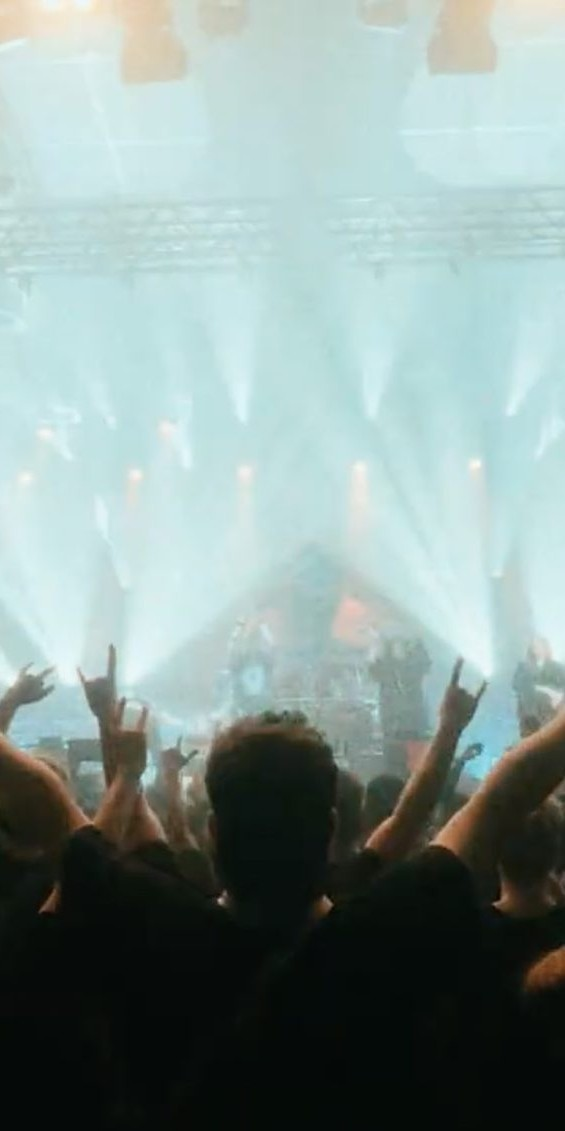
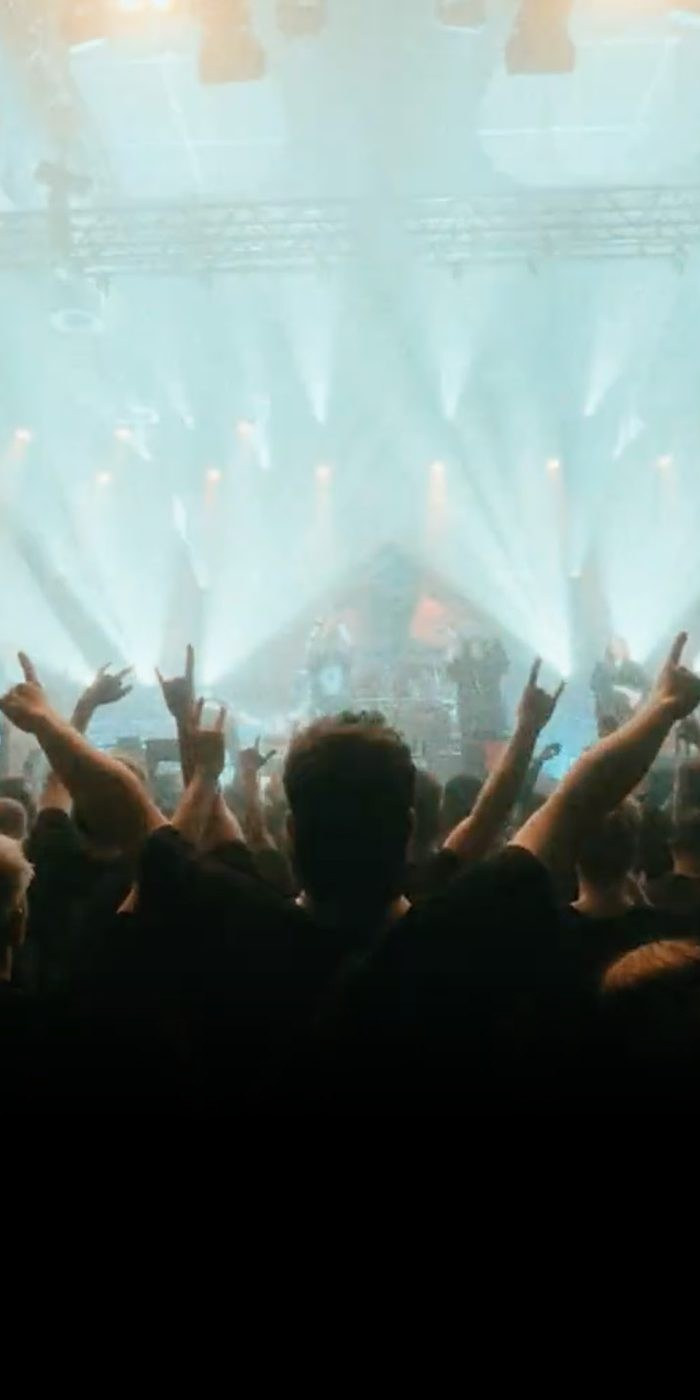
Startseite: SFX-Kachel rausgezoomt und auf den Kopf zentriert, Rental näher und nach rechts
Claude-Session: https://claude.ai/code/session_01QhcQSyaPqWh9SfbxJbcUBo

diff --git a/index.html b/index.html
@@ -288,8 +288,8 @@
   <div class="wrap cards__grid">
     <a class="card" href="shows.html"><div class="card__img"><img loading="lazy" decoding="async" src="img/shows.jpg?v=5" alt="Buntes Feuerwerk über einer Rennbahn vor Publikum"></div><span class="card__label">SHOWS</span></a>
     <a class="card" href="shop.html"><div class="card__img"><img loading="lazy" decoding="async" src="img/vertrieb.jpg" alt="Paletten mit Feuerwerkskartons"></div><span class="card__label">SHOP</span></a>
-    <a class="card" href="effekte.html"><div class="card__img"><img loading="lazy" decoding="async" src="img/sfx.jpg?v=3" alt="Konzertpublikum vor einer Bühne mit CO2-Jets und Lichtstrahlen"></div><span class="card__label">SPECIAL EFFECTS</span></a>
-    <a class="card" href="rental.html"><div class="card__img"><img loading="lazy" decoding="async" src="img/rental.jpg?v=3" alt="Fünf Effektgeräte von Magic FX und Spark Fabrica im schwarzen Studio"></div><span class="card__label">RENTAL</span></a>
+    <a class="card" href="effekte.html"><div class="card__img"><img loading="lazy" decoding="async" src="img/sfx.jpg?v=4" alt="Konzertpublikum vor einer Bühne mit CO2-Jets und Lichtstrahlen"></div><span class="card__label">SPECIAL EFFECTS</span></a>
+    <a class="card" href="rental.html"><div class="card__img"><img loading="lazy" decoding="async" src="img/rental.jpg?v=4" alt="Fünf Effektgeräte von Magic FX und Spark Fabrica im schwarzen Studio"></div><span class="card__label">RENTAL</span></a>
   </div>
 </section>
 
